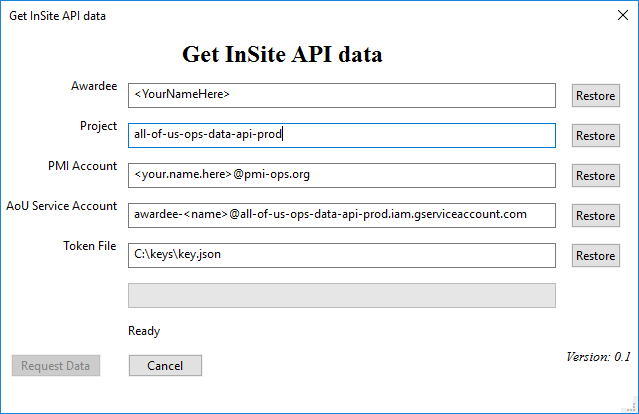
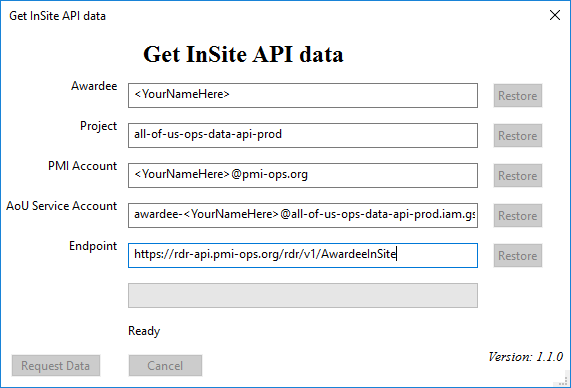
Only close api_mgr if you're sure it exists.

diff --git a/src/getmyapidata/api_gui.py b/src/getmyapidata/api_gui.py
@@ -110,10 +110,10 @@ class ApiGui(wx.Dialog):
         # LOCATION OF TOKEN FILE
         self.__add_controls(
             5,
-            "Token File",
-            self.__aou_package.token_file,
-            self.__on_token_file_text_changed,
-            self.__on_restore_token_file_button_clicked,
+            "Endpoint",
+            self.__aou_package.endpoint,
+            self.__on_endpoint_text_changed,
+            self.__on_restore_endpoint_button_clicked,
         )
 
         # CHECK THAT GCLOUD TOOLS ARE INSTALLED.
@@ -460,8 +460,11 @@ class ApiGui(wx.Dialog):
         Ensure external thread is stopped before GUI closes.
         """
         self.__log.info("GUI closing.")
-        self.__api_mgr.stop()
         self.__is_cancelled = True
+
+        if self.__api_mgr:
+            self.__api_mgr.stop()
+
         event.Skip()
 
     def __on_data_completion(self) -> None:
@@ -648,7 +651,7 @@ class ApiGui(wx.Dialog):
         text_ctrl.SetValue(self.__aou_package.restore_project())
         button.Disable()
 
-    def __on_restore_token_file_button_clicked(self, event: wx.EVT_BUTTON) -> None:
+    def __on_restore_endpoint_button_clicked(self, event: wx.EVT_BUTTON) -> None:
         """
         Restore button handler
 
@@ -662,7 +665,7 @@ class ApiGui(wx.Dialog):
         """
         button: wx.Button = event.GetEventObject()
         text_ctrl: wx.TextCtrl = self.__buttons_and_text_boxes[button]
-        text_ctrl.SetValue(self.__aou_package.restore_token_file())
+        text_ctrl.SetValue(self.__aou_package.restore_endpoint())
         button.Disable()
 
     def __on_show_menu(self, event: wx.EVT_MENU) -> None:
@@ -685,7 +688,7 @@ class ApiGui(wx.Dialog):
         self.PopupMenu(menu, event.GetPosition())
         menu.Destroy()
 
-    def __on_token_file_text_changed(self, event: wx.EVT_TEXT) -> None:
+    def __on_endpoint_text_changed(self, event: wx.EVT_TEXT) -> None:
         """
         Event handler for when user changes this text control:
             1) Updates the property
@@ -701,7 +704,7 @@ class ApiGui(wx.Dialog):
         None
         """
         text_ctrl_source: wx.TextCtrl = event.GetEventObject()
-        self.__aou_package.token_file = text_ctrl_source.GetValue()
+        self.__aou_package.endpoint = text_ctrl_source.GetValue()
         restore_button: wx.Button = self.__text_boxes_and_buttons[text_ctrl_source]
         restore_button.Enable()
         self.__enable_if_inputs_complete()

diff --git a/src/getmyapidata/__main__.py b/src/getmyapidata/__main__.py
@@ -1,6 +1,7 @@
 """
 Main routine--creates API GUI.
 """
+import argparse
 import logging
 import os
 
@@ -12,11 +13,27 @@ from src.getmyapidata.my_logging import setup_logging
 from src.getmyapidata.splash import MySplashScreen
 
 if __name__ == "__main__":
+    parser: argparse.ArgumentParser = argparse.ArgumentParser(
+        description="A GUI-based tool to retrieve All of Us participant data using the InSite API."
+    )
+    parser.add_argument(
+        "--log-level", type=str, help="INFO, DEBUG, etc.", default="INFO"
+    )
 
     log: logging.Logger = setup_logging(
         log_filename=os.path.join(os.getcwd(), "getmyapidata.log")
     )
-    # log.setLevel(logging.DEBUG)
+
+    args = parser.parse_args()
+
+    if args.log_level and args.log_level in [
+        "DEBUG",
+        "INFO",
+        "WARNING",
+        "ERROR",
+        "CRITICAL",
+    ]:
+        log.setLevel(args.log_level)
 
     # Display splash screen.
     app: wx.App = wx.App(redirect=False)

diff --git a/src/getmyapidata/aou_package.py b/src/getmyapidata/aou_package.py
@@ -6,7 +6,8 @@ import logging
 import os
 from configparser import ConfigParser, ExtendedInterpolation
 
-from src.getmyapidata.common import ensure_path_possible  # pylint: disable=import-error
+from src.getmyapidata.common import \
+    ensure_path_possible  # pylint: disable=import-error
 
 # String we insert into config file & GUI entries.
 DUMMY: str = "<YourNameHere>"
@@ -188,6 +189,17 @@ class AouPackage:
         """
         self.awardee = self.__config["AoU"]["awardee"]
         return self.awardee
+
+    def restore_endpoint(self) -> str:
+        """
+        Lets external class pull the config file value of endpoint property.
+
+        Returns
+        -------
+        str
+        """
+        self.token_file = self.__config["AoU"]["endpoint"]
+        return self.token_file
 
     def restore_pmi_account(self) -> str:
         """

diff --git a/setup.py b/setup.py
@@ -2,7 +2,7 @@ from setuptools import setup
 
 setup(
     name='GetMyApiData',
-    version='1.0.0',
+    version='1.1.0',
     packages=['getmyapidata'],
     package_dir={'getmyapidata': 'src/getmyapidata'},
     url='https://github.com/DBMI/GetMyApiData',
